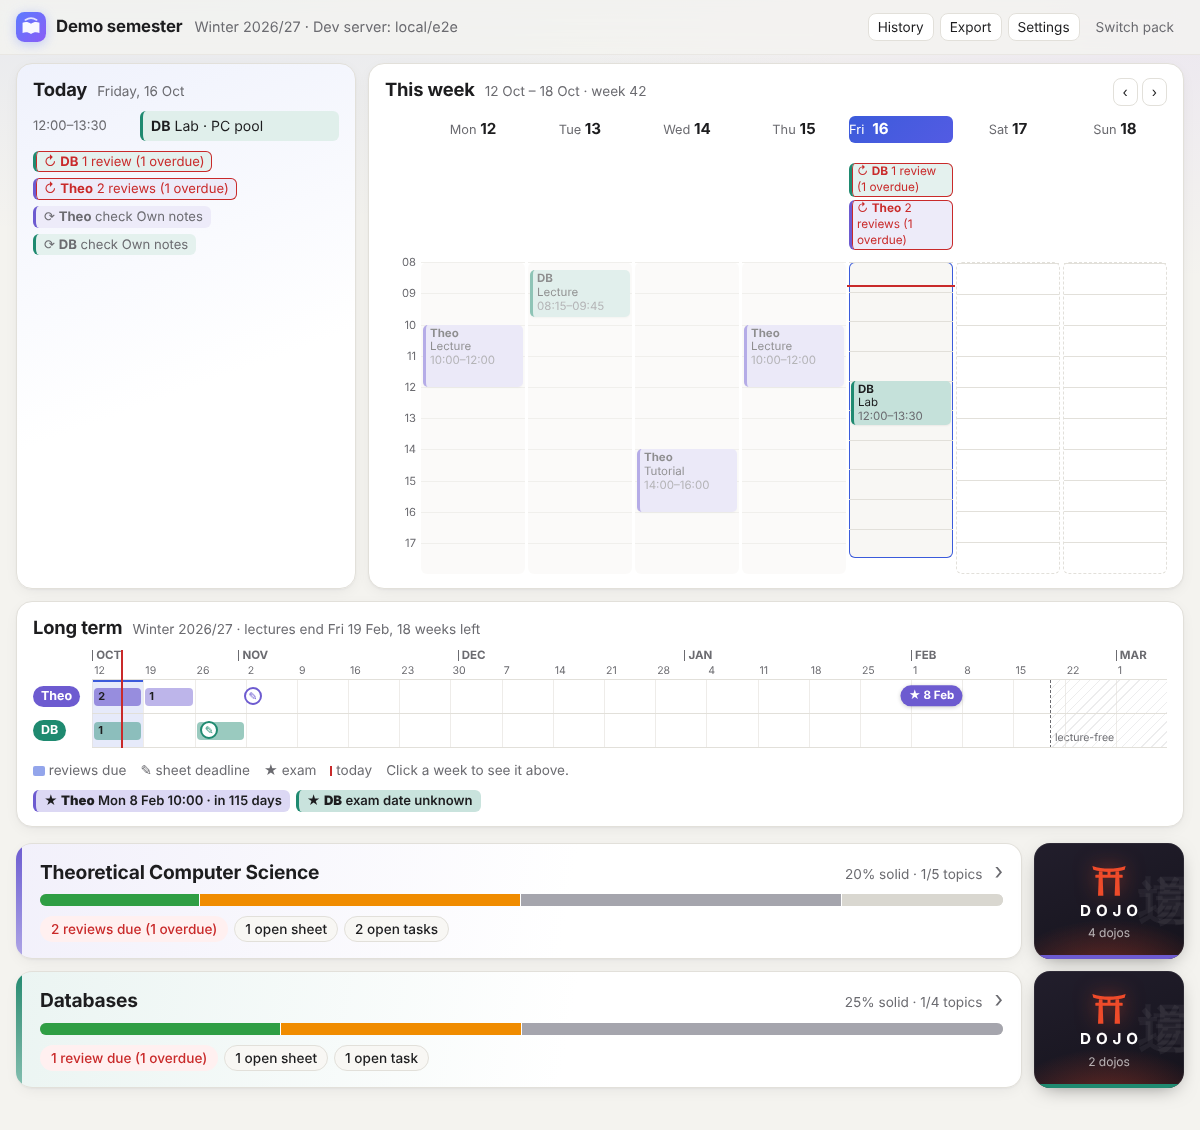
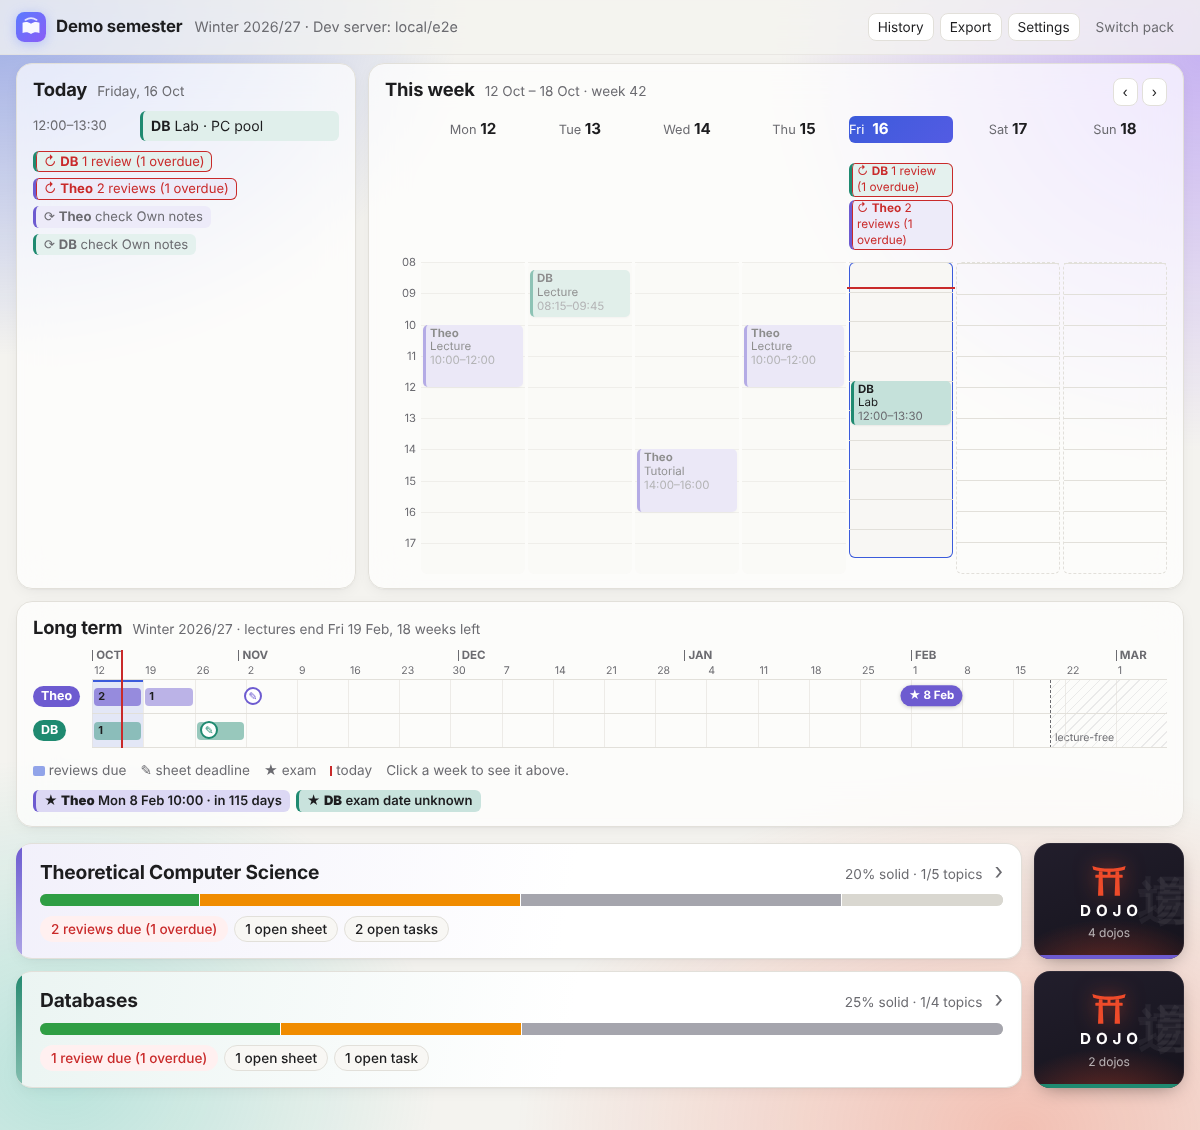
Fix the background glow in place and make it stronger
Claude-Session: https://claude.ai/code/session_012F7amvFbtwtooJCAQqXZZX

diff --git a/src/styles.css b/src/styles.css
@@ -59,11 +59,16 @@ body {
   background: var(--bg);
   color: var(--text);
   font: 15px/1.5 Inter, 'SF Pro Text', system-ui, -apple-system, 'Segoe UI', Roboto, sans-serif;
-  background-image:
-    radial-gradient(1200px 500px at 10% -10%, color-mix(in srgb, var(--accent) 10%, transparent), transparent 70%),
-    radial-gradient(900px 400px at 100% 0%, color-mix(in srgb, #8b5cf6 8%, transparent), transparent 70%);
-  background-repeat: no-repeat;
   min-height: 100vh;
+}
+/* Glow behind everything; fixed, so it stays put while the page scrolls. */
+body::before {
+  content: ''; position: fixed; inset: 0; z-index: -1; pointer-events: none;
+  background:
+    radial-gradient(55vw 45vh at 0% 0%, color-mix(in srgb, var(--accent) 48%, transparent), transparent 70%),
+    radial-gradient(50vw 50vh at 100% 5%, color-mix(in srgb, #8b5cf6 42%, transparent), transparent 70%),
+    radial-gradient(60vw 45vh at 85% 100%, color-mix(in srgb, var(--vermilion) 30%, transparent), transparent 70%),
+    radial-gradient(45vw 40vh at 5% 95%, color-mix(in srgb, #14b8a6 26%, transparent), transparent 70%);
 }
 a { color: var(--accent); }
 h1, h2, h3 { line-height: 1.25; margin: 0; letter-spacing: -0.01em; }
@@ -377,7 +382,7 @@ table.automaton.readonly td, table.automaton.readonly th { border: 1px solid var
 /* Long term: a timeline with one row per subject */
 .tl-scroll { overflow-x: auto; padding-bottom: 2px; }
 .tl { display: grid; grid-template-columns: max-content minmax(calc(var(--weeks) * 24px), 1fr); gap: 0 8px; }
-.tl-labels { display: grid; grid-template-rows: 30px; grid-auto-rows: 34px; position: sticky; left: 0; z-index: 5; background: var(--panel); padding-right: 4px; }
+.tl-labels { display: grid; grid-template-rows: 30px; grid-auto-rows: 34px; position: sticky; left: 0; z-index: 5; padding-right: 4px; }
 .tl-label {
   align-self: center; justify-self: start; max-width: 7em; overflow: hidden; text-overflow: ellipsis; white-space: nowrap;
   border-radius: 999px; padding: 1px 8px; font-size: 0.78rem; font-weight: 700; text-decoration: none;
@@ -618,3 +623,9 @@ button.dojo-go {
 .btn.dojo-btn { background: linear-gradient(160deg, var(--ink-2), var(--ink)); color: #fff; border-color: transparent; }
 .btn.dojo-btn svg { color: var(--vermilion); }
 .btn.dojo-btn:hover { box-shadow: 0 6px 16px -6px var(--vermilion); }
+
+/* Frosted panels so the background glow shows through a little. */
+.panel:not(.dojo-tile):not(.banner) {
+  background: color-mix(in srgb, var(--panel) 70%, transparent);
+  backdrop-filter: blur(18px) saturate(1.2); -webkit-backdrop-filter: blur(14px) saturate(1.2);
+}
